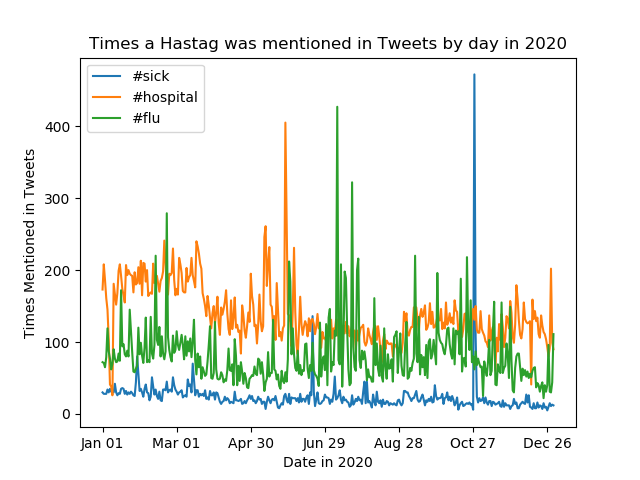
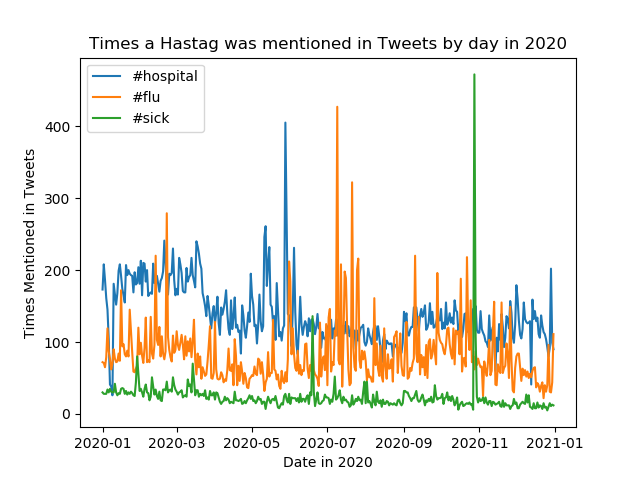
11

diff --git a/alternative_reduce.py b/alternative_reduce.py
@@ -23,36 +23,32 @@ results = {}
 for path in paths:
         date_str = os.path.splitext(os.path.basename(path))[0][10:18]
         date = datetime.strptime(date_str, '%y-%m-%d')
-        try:
-            with open(path) as f:
+        with open(path) as f:
+            try:
                 data = json.load(f)
                 for key in args.key.split(','):
                     if key in data:
                         if date not in results:
                             results[date] = defaultdict(int)
                         results[date][key] += sum(data[key].values())
-        except json.decoder.JSONDecodeError:
-            print(f"Skipping invalid JSON file: {path}")
-
+            except json.decoder.JSONDecodeError:
+                print(f"Skipping invalid JSON file: {path}")
 results = dict(sorted(results.items()))
 print("results=", results)
-
 keys = set()
+
 for date, data in results.items():
     keys.update(data.keys())
 keys = list(keys)
-print("keys=", keys)
 for key in keys:
-    print("key =", key )
-    x = list(results.keys())
-    y = [results[date][key] for date in x]
-    x = [date.date() for date in x]  # convert to date objec
+    x = [date.date() for date in results.keys()]
+    y = [results[date][key] for date in results.keys()]
     plt.plot(x,y,label = key)
+
 
 plt.xlabel("Date in 2020")
 plt.ylabel("Times Mentioned in Tweets")
 plt.title("Times a Hastag was mentioned in Tweets by day in 2020")
-plt.xticks(x[::60], [d.strftime('%b %d') for d in x[::60]])
 plt.legend()
 plt.savefig("sickvhospital_tweet.png")
 plt.show()
